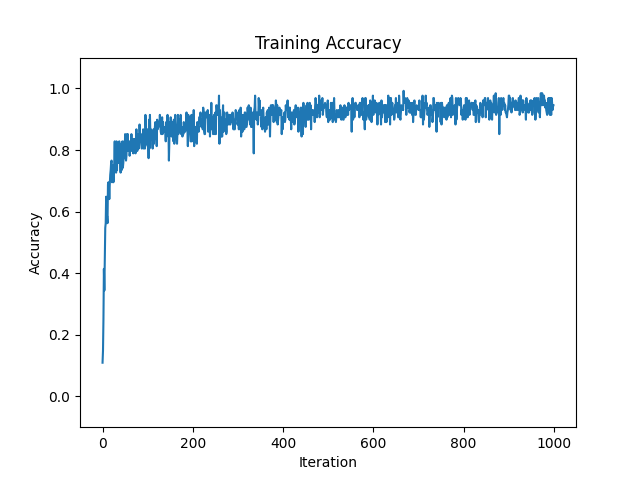
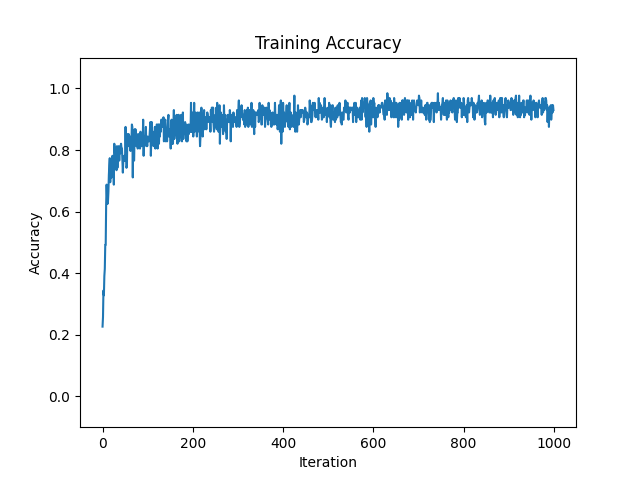
cleanup

Changed region(s): [[0.1562, 0.1875, 0.875, 0.4688], [0.1562, 0.6562, 0.1875, 0.75], [0.1562, 0.5625, 0.1875, 0.5938]]

diff --git a/main_np.py b/main_np.py
@@ -2,8 +2,10 @@ import numpy as np
 from tqdm import tqdm
 import matplotlib.pyplot as plt
 import torch
-from main_torch import MLP
+
+from mlp_torch import MLP
 from fetcher import fetch
+from mlp_np import forward, forward_backward, numpy_eval, logsumexp, layer_init
 
 
 if __name__ == '__main__':
@@ -13,87 +15,27 @@ if __name__ == '__main__':
     X_test = fetch("http://yann.lecun.com/exdb/mnist/t10k-images-idx3-ubyte.gz")[0x10:].reshape((-1, 28, 28))
     Y_test = fetch("http://yann.lecun.com/exdb/mnist/t10k-labels-idx1-ubyte.gz")[8:]
     
-    model = MLP()
-
-    model.load_state_dict(torch.load('pytorch_mnist.pth'))
-
-    l1 = model.l1.weight.detach().numpy().T
-    l2 = model.l2.weight.detach().numpy().T
-
-
-    # numpy forward pass
-
-    def forward(x):
-        x = x.dot(l1)
-        x = np.maximum(x, 0)
-        x = x.dot(l2)  
-        return x
-
-    def numpy_eval():
-        Y_test_preds_out = forward(X_test.reshape((-1, 28*28)))
-        Y_test_preds = np.argmax(Y_test_preds_out, axis=1)
-        return (Y_test == Y_test_preds).mean()
-
-    # numpy forward and backward pass
-
-    def logsumexp(x):
-        c = x.max(axis=1)
-        return c + np.log(np.exp(x-c.reshape((-1, 1))).sum(axis=1))
-
-    def forward_backward(x, y):
-        # training
-        out = np.zeros((len(y),10), np.float32)
-        out[range(out.shape[0]),y] = 1
-
-        # forward pass
-        x_l1 = x.dot(l1)
-        x_relu = np.maximum(x_l1, 0)
-        x_l2 = x_relu.dot(l2)
-        x_lsm = x_l2 - logsumexp(x_l2).reshape((-1, 1))
-        x_loss = (-out * x_lsm).mean(axis=1)
-
-        d_out = -out / len(y)
-
-        dx_lsm = d_out - np.exp(x_lsm)*d_out.sum(axis=1).reshape((-1, 1))
-
-        d_l2 = x_relu.T.dot(dx_lsm)
-        dx_relu = dx_lsm.dot(l2.T)
-
-        dx_l1 = (x_relu > 0).astype(np.float32) * dx_relu
-
-        d_l1 = x.T.dot(dx_l1)
-        
-        return x_loss, x_l2, d_l1, d_l2
-
-    samp = [0,1,2,3]
-    x_loss, x_l2, d_l1, d_l2 = forward_backward(X_test[samp].reshape((-1, 28*28)), Y_test[samp])
-
-
-    # numpy training
-    def layer_init(m, h):
-        ret = np.random.uniform(-1., 1., size=(m,h))/np.sqrt(m*h)
-        return ret.astype(np.float32)
-
     # reinit
     np.random.seed(1337)
-    l1 = layer_init(784, 128)
-    l2 = layer_init(128, 10)
+    layer1 = layer_init(784, 128)
+    layer2 = layer_init(128, 10)
 
-    lr = 0.001
+    learning_rate = 0.001
     BS = 128
     losses, accuracies = [], []
-    for i in tqdm(range(1000)):
-        samp = np.random.randint(0, X_train.shape[0], size=(BS))
-        X = X_train[samp].reshape((-1, 28*28))
-        Y = Y_train[samp]
-        x_loss, x_l2, d_l1, d_l2 = forward_backward(X, Y)
+    
+    for i in tqdm(range(1000), desc = 'Training Numpy MLP'):
+        sample = np.random.randint(0, X_train.shape[0], size=(BS))
+        X = X_train[sample].reshape((-1, 28*28))
+        Y = Y_train[sample]
+        x_loss, x_layer2, d_layer1, d_layer2 = forward_backward(X, Y, layer1, layer2)
         
-        cat = np.argmax(x_l2, axis=1)
+        cat = np.argmax(x_layer2, axis=1)
         accuracy = (cat == Y).mean()
         
         # SGD
-        l1 = l1 - lr*d_l1
-        l2 = l2 - lr*d_l2
+        layer1 = layer1 - learning_rate*d_layer1
+        layer2 = layer2 - learning_rate*d_layer2
         
         loss = x_loss.mean()
         losses.append(loss)
@@ -102,8 +44,7 @@ if __name__ == '__main__':
     print(f'Training Accuracy: {max(accuracies)}')
     print(f'Training Loss: {min(losses)}')
 
-    Y_test_preds = torch.argmax(model(torch.tensor(X_test.reshape((-1, 28*28))).float()), dim=1).numpy()
-    print(f'Test Accuracy: {numpy_eval()}')
+    print(f'Test Accuracy: {numpy_eval(X_test, Y_test, layer1, layer2)}')
 
     # Plot losses
     plt.plot(losses)

diff --git a/main_torch.py b/main_torch.py
@@ -1,24 +1,11 @@
 import numpy as np
 from tqdm import tqdm
+import matplotlib.pyplot as plt
 import torch
 import torch.nn as nn
-import torch.nn.functional as F
-import matplotlib.pyplot as plt
+
+from mlp import MLP
 from fetcher import fetch
-
-
-class MLP(torch.nn.Module):
-  def __init__(self):
-    super(MLP, self).__init__()
-    self.l1 = nn.Linear(784, 128, bias=False)
-    self.l2 = nn.Linear(128, 10, bias=False)
-    self.sm = nn.LogSoftmax(dim=1)
-  def forward(self, x):
-    x = F.relu(self.l1(x))
-    x = self.l2(x)
-    x = self.sm(x)
-    return x
-
 
 
 if __name__ == '__main__':
@@ -28,27 +15,35 @@ if __name__ == '__main__':
     X_test = fetch("http://yann.lecun.com/exdb/mnist/t10k-images-idx3-ubyte.gz")[0x10:].reshape((-1, 28, 28))
     Y_test = fetch("http://yann.lecun.com/exdb/mnist/t10k-labels-idx1-ubyte.gz")[8:]
     
-    
     model = MLP()
 
-
-    loss_function = nn.NLLLoss(reduction='none')
-    optim = torch.optim.SGD(model.parameters(), lr=0.001, momentum=0)
-    BS = 128
+    negative_log_likelihood_loss = nn.NLLLoss(reduction='none')
+    
+    # stochastic gradient descent (sgd)
+    sgd_optimizer = torch.optim.SGD(model.parameters(), lr=0.001, momentum=0)
+    batch_size = 128
     losses, accuracies = [], []
     
-    for i in tqdm(range(1000)):
-        samp = np.random.randint(0, X_train.shape[0], size=(BS))
-        X = torch.tensor(X_train[samp].reshape((-1, 28*28))).float()
-        Y = torch.tensor(Y_train[samp]).long()
+    for i in tqdm(range(1000), desc = 'Training Pytorch MLP:'):
+        
+        sample = np.random.randint(0, X_train.shape[0], size=(batch_size))
+        
+        X = torch.tensor(X_train[sample].reshape((-1, 28*28))).float()
+        Y = torch.tensor(Y_train[sample]).long()
+        
         model.zero_grad()
+        
         out = model(X)
         cat = torch.argmax(out, dim=1)
+        
         accuracy = (cat == Y).float().mean()
-        loss = loss_function(out, Y)
+        
+        loss = negative_log_likelihood_loss(out, Y)
         loss = loss.mean()
         loss.backward()
-        optim.step()
+        
+        sgd_optimizer.step()
+        
         loss, accuracy = loss.item(), accuracy.item()
         losses.append(loss)
         accuracies.append(accuracy) 
@@ -57,6 +52,7 @@ if __name__ == '__main__':
     print(f'Training Loss: {min(losses)}')
 
     Y_test_preds = torch.argmax(model(torch.tensor(X_test.reshape((-1, 28*28))).float()), dim=1).numpy()
+    
     print(f'Test Accuracy: {(Y_test == Y_test_preds).mean()}')
 
     torch.save(model.state_dict(), 'pytorch_mnist.pth')

diff --git a/mlp_np.py b/mlp_np.py
@@ -1,0 +1,54 @@
+import numpy as np
+
+
+# numpy forward pass
+
+def forward(x, layer1, layer2):
+    x = x.dot(layer1)
+    x = np.maximum(x, 0)
+    x = x.dot(layer2)  
+    return x
+
+def numpy_eval(X_test, Y_test, layer1, layer2):
+    Y_test_preds_out = forward(X_test.reshape((-1, 28*28)), layer1, layer2)
+    Y_test_preds = np.argmax(Y_test_preds_out, axis=1)
+    return (Y_test == Y_test_preds).mean()
+
+# numpy forward and backward pass
+
+def logsumexp(x):
+    c = x.max(axis=1)
+    return c + np.log(np.exp(x-c.reshape((-1, 1))).sum(axis=1))
+
+def forward_backward(x, y, layer1, layer2):
+    # training
+    out = np.zeros((len(y),10), np.float32)
+    out[range(out.shape[0]),y] = 1
+
+    # forward pass
+    x_layer1 = x.dot(layer1)
+    x_relu = np.maximum(x_layer1, 0)
+    x_layer2 = x_relu.dot(layer2)
+    
+    x_logsumexp = x_layer2 - logsumexp(x_layer2).reshape((-1, 1))
+    x_loss = (-out * x_logsumexp).mean(axis=1)
+    
+    # backward pass
+    d_out = -out / len(y)
+
+    dx_lsm = d_out - np.exp(x_logsumexp)*d_out.sum(axis=1).reshape((-1, 1))
+
+    d_layer2 = x_relu.T.dot(dx_lsm)
+    dx_relu = dx_lsm.dot(layer2.T)
+
+    dx_layer1 = (x_relu > 0).astype(np.float32) * dx_relu
+
+    d_layer1 = x.T.dot(dx_layer1)
+    
+    return x_loss, x_layer2, d_layer1, d_layer2
+
+
+# numpy training
+def layer_init(m, h):
+    ret = np.random.uniform(-1., 1., size=(m,h))/np.sqrt(m*h)
+    return ret.astype(np.float32)

diff --git a/mlp_torch.py b/mlp_torch.py
@@ -1,0 +1,15 @@
+import torch
+import torch.nn as nn
+import torch.nn.functional as F
+
+class MLP(torch.nn.Module):
+  def __init__(self):
+    super(MLP, self).__init__()
+    self.layer1 = nn.Linear(784, 128, bias=False)
+    self.layer2 = nn.Linear(128, 10, bias=False)
+    self.softmax = nn.LogSoftmax(dim=1)
+  def forward(self, x):
+    x = F.relu(self.layer1(x))
+    x = self.layer2(x)
+    x = self.softmax(x)
+    return x
